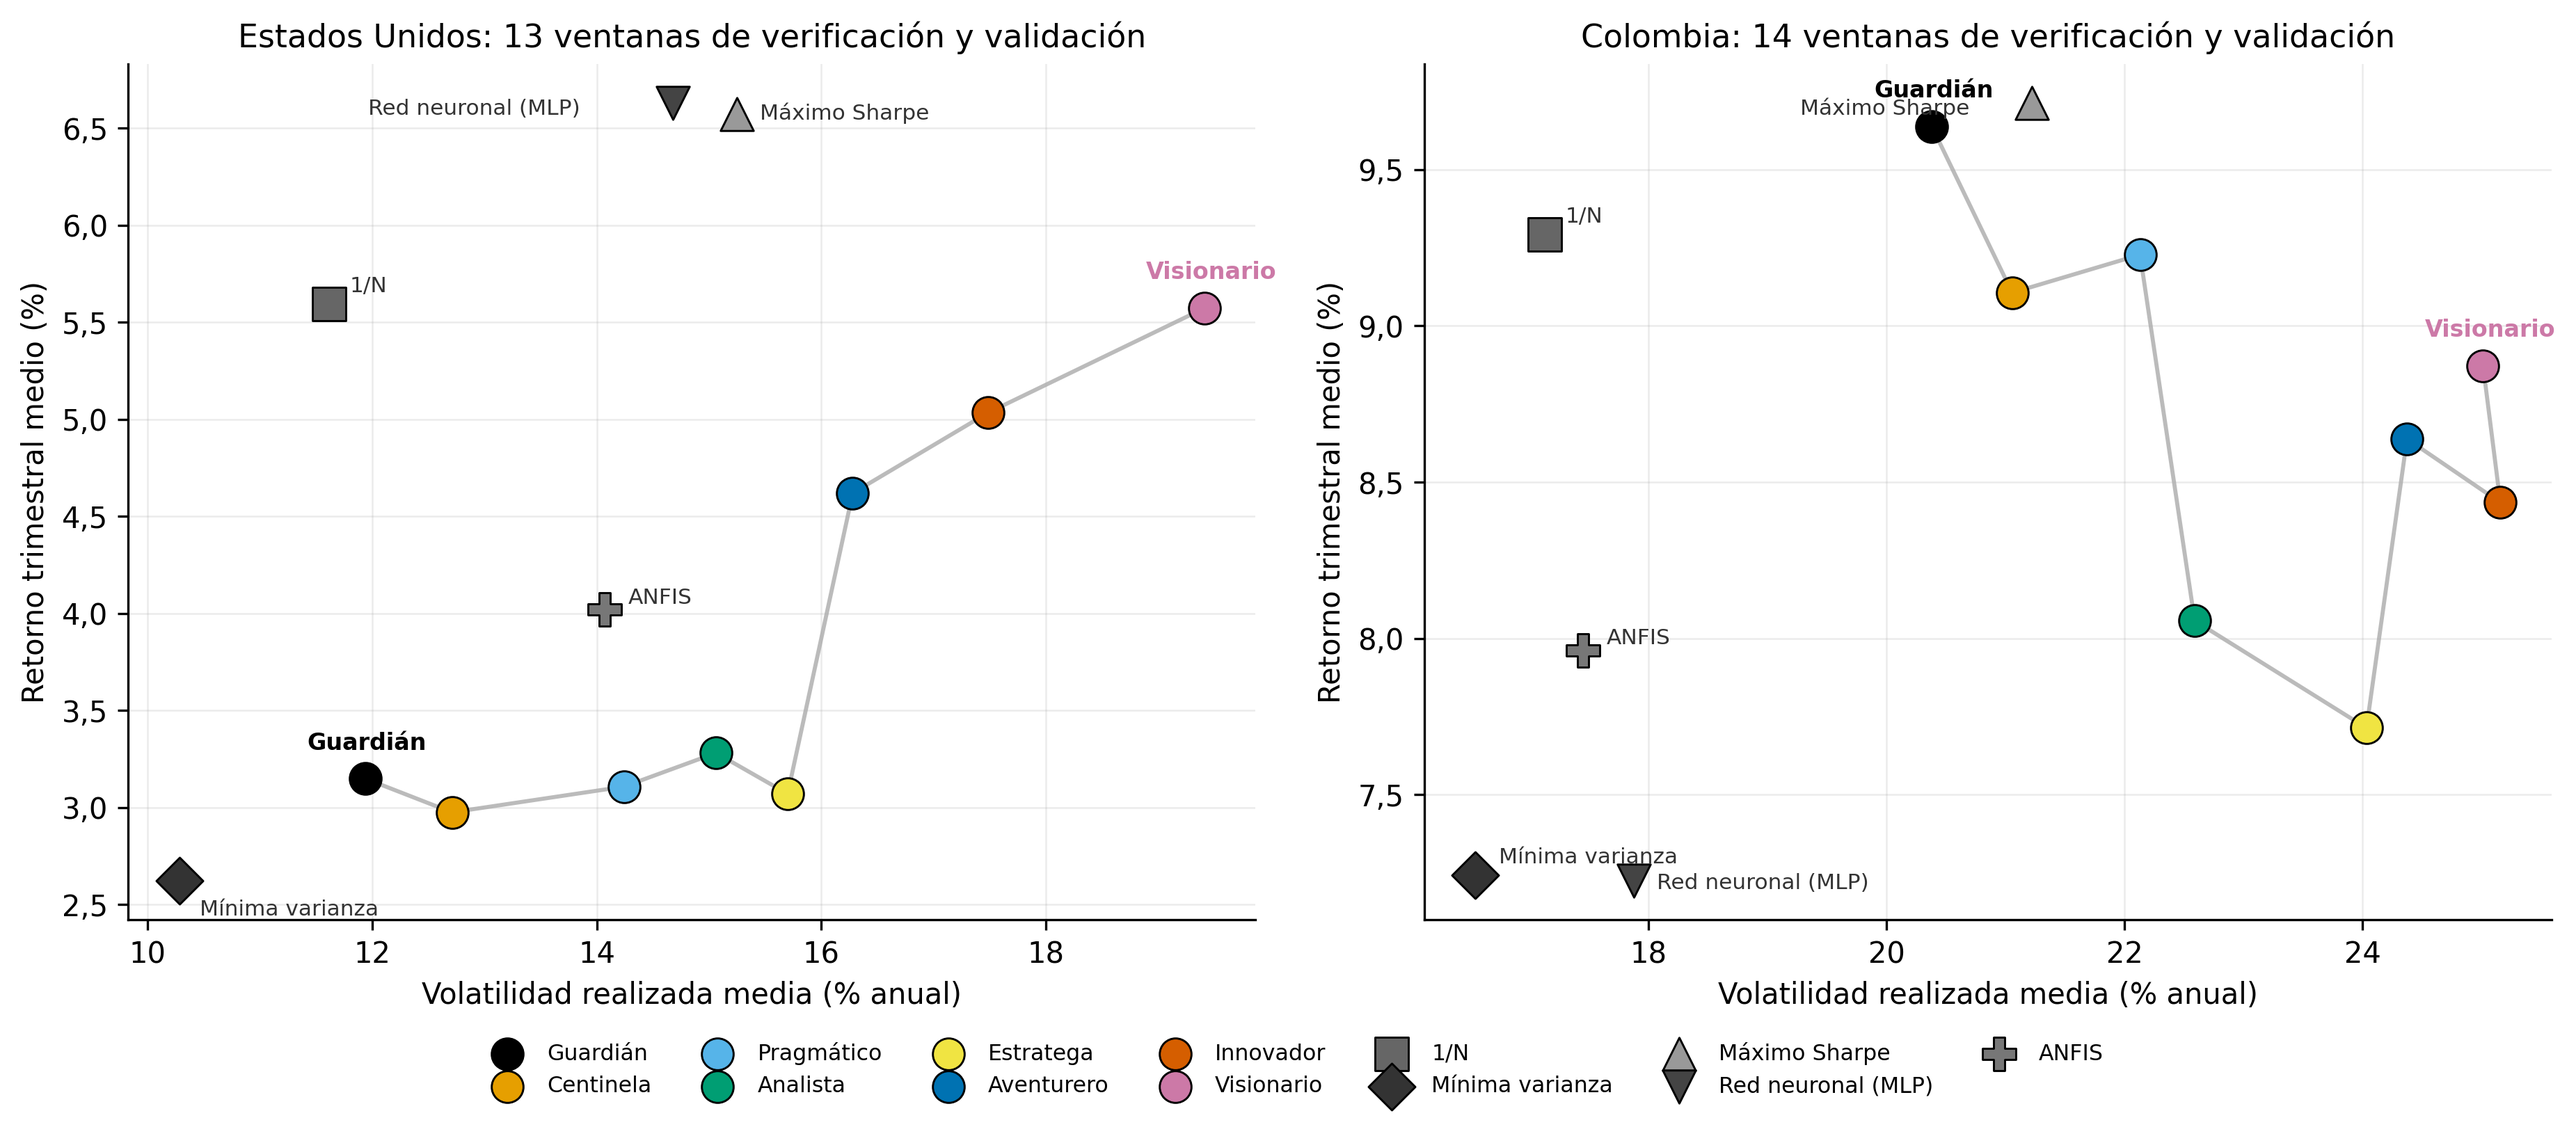
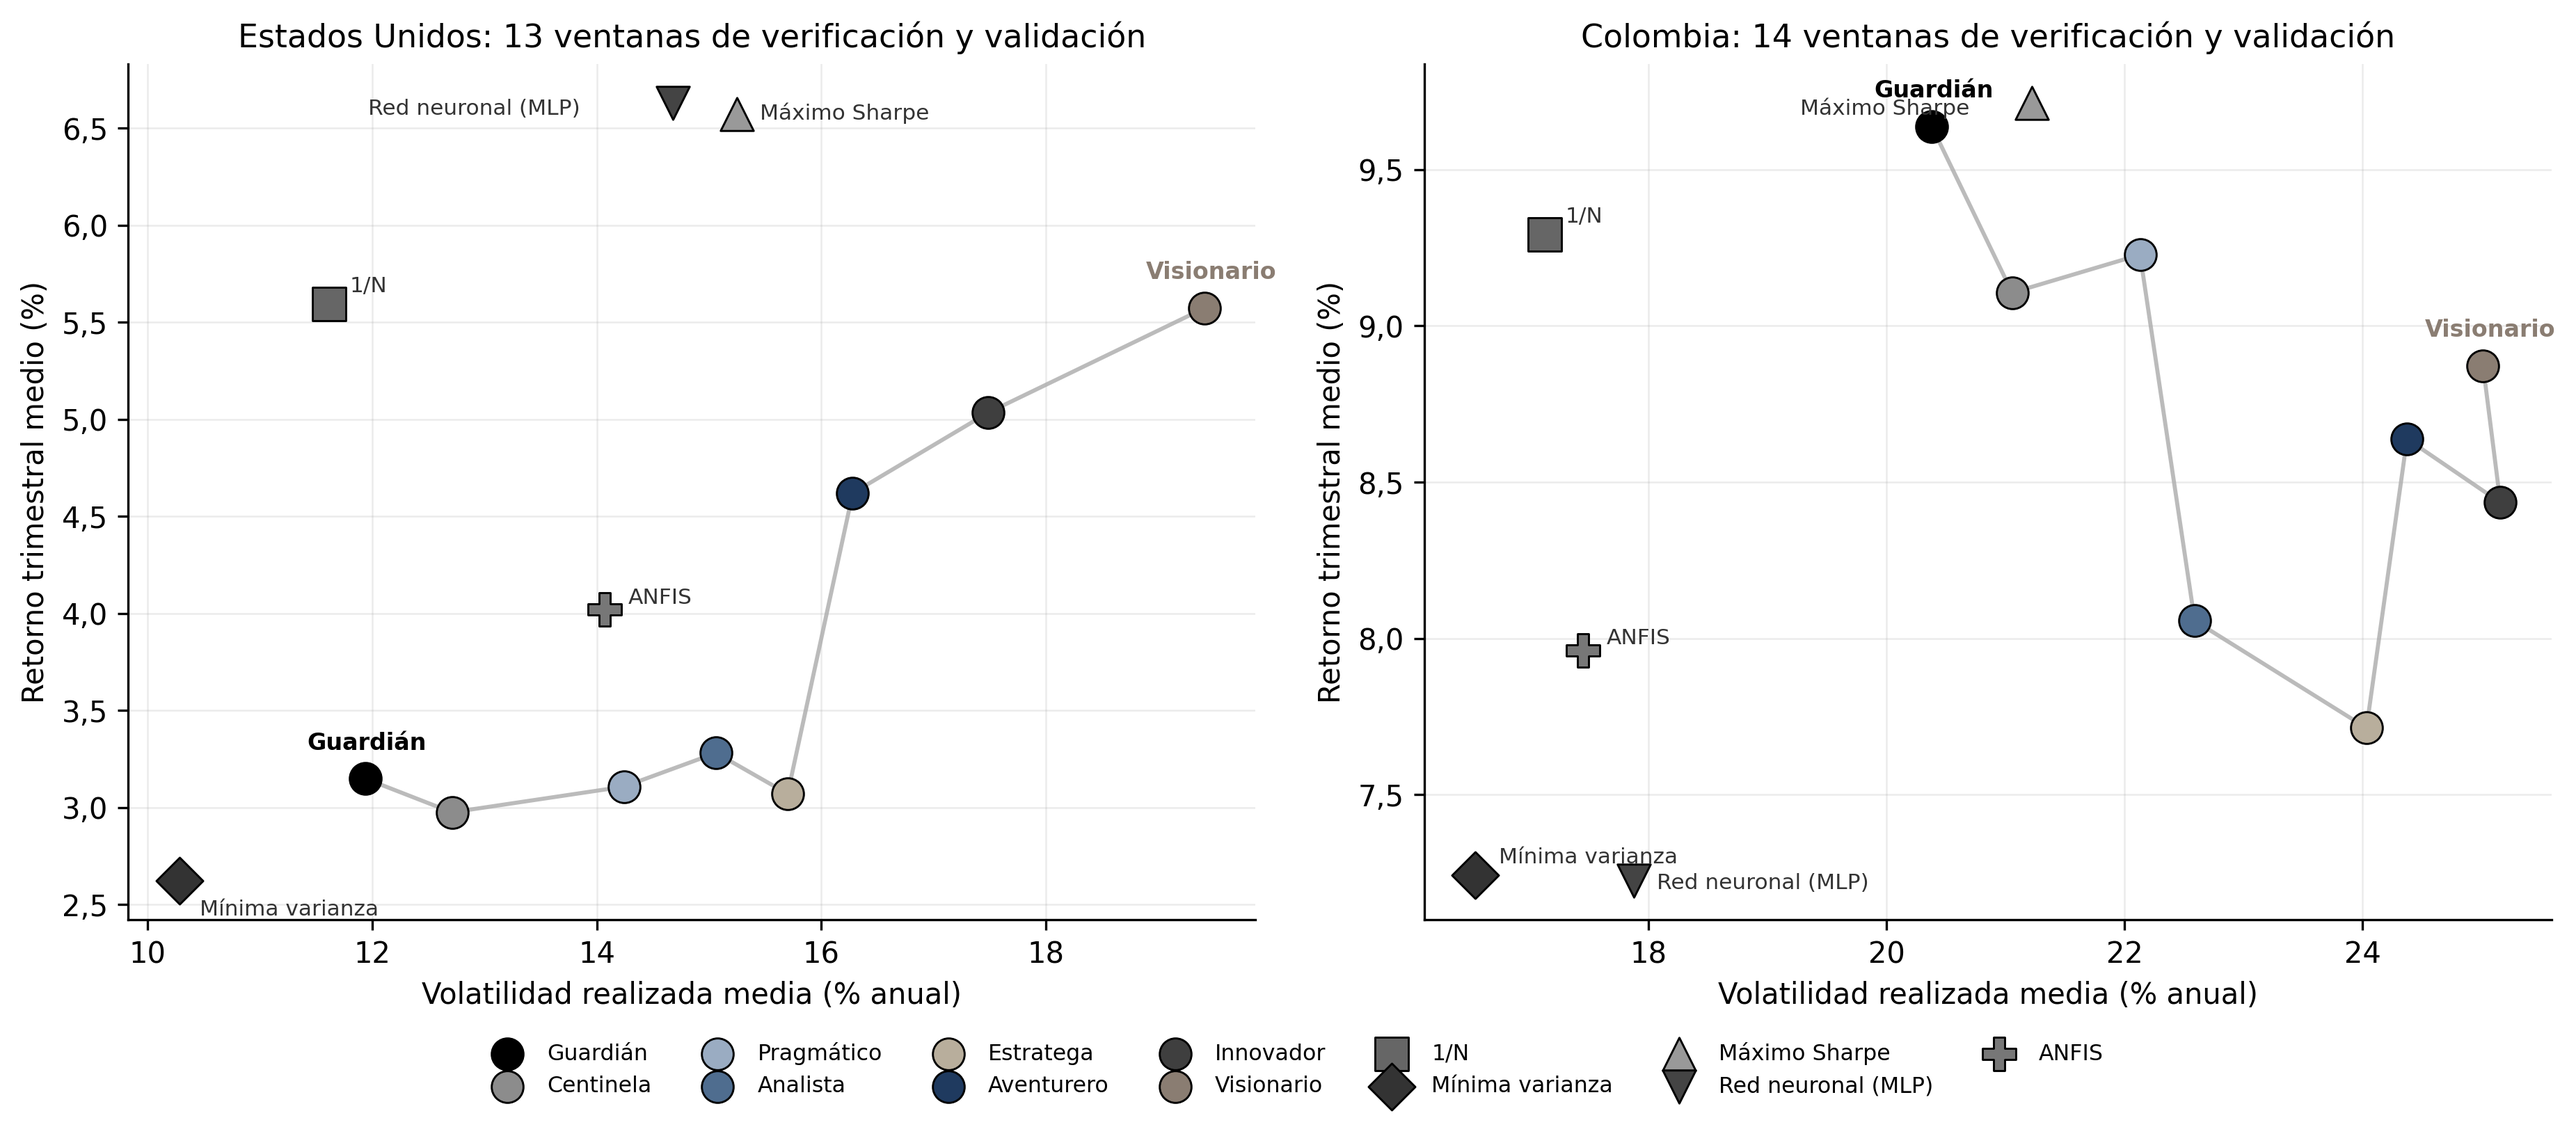
Figuras en paleta institucional (azul marino y grises)
Recolorea todas las figuras y los guiones que las generan; sin cambios de contenido ni de datos.
Figura 3.4 (prisma-repo): desglose de excluidos 161 + 48 + 8 = 217 y diagrama sin notas de proceso.

Claude-Session: https://claude.ai/code/session_0184E9JJGMmxaafh1wjWUT3s

diff --git a/scripts/fig_emocional.py b/scripts/fig_emocional.py
@@ -22,7 +22,7 @@ res = pd.read_csv(os.path.join(RES, "emocional_resumen.csv"), index_col=0)
 cfg = EngineConfig()
 fig, axes = plt.subplots(1, 2, figsize=(11.5, 4.4))
 ax = axes[0]
-for g, c, et in [("logico", "#0072B2", "lógicos"), ("emocional", "#E69F00", "emocionales")]:
+for g, c, et in [("logico", "#1F3A5F", "lógicos"), ("emocional", "#8C8C8C", "emocionales")]:
     v = ind.loc[ind.grupo == g, "mean_abs_gap"]
     ax.hist(v, bins=14, color=c, edgecolor="black", lw=0.5, alpha=0.85,
             label=f"{et} (n = {len(v)})")
@@ -34,8 +34,8 @@ estilo(ax); ejes_coma(ax)
 ax = axes[1]
 lam = ind.loc[ind.grupo == "logico", "lambda_hat"].dropna()
 n_neg, n_alto = int((lam < 0).sum()), int((lam > 6).sum())
-ax.hist(lam, bins=12, range=(0, 6), color="#009E73", edgecolor="black", lw=0.5)
-ax.axvline(cfg.loss_lambda, color="#D55E00", ls="--", lw=2,
+ax.hist(lam, bins=12, range=(0, 6), color="#4F6D8F", edgecolor="black", lw=0.5)
+ax.axvline(cfg.loss_lambda, color="#3F3F3F", ls="--", lw=2,
            label=f"λ sembrado = {coma(cfg.loss_lambda, 2)}")
 med = float(res.loc["logico", "lambda_estimado"])
 ax.axvline(med, color="black", ls=":", lw=2, label=f"mediana estimada = {coma(med, 2)}")

diff --git a/scripts/_es.py b/scripts/_es.py
@@ -6,9 +6,9 @@ from motor_owa.viz_es import (NOMBRES_ES, COMPARADORES_ES, OKABE_ITO, coma,  # n
                               ejes_coma, estilo, guardar)
 from matplotlib.colors import LinearSegmentedColormap
 
-#: divergente Okabe-Ito: bermellon (hacia la prudencia) - blanco - azul
+#: divergente: gris oscuro (hacia la prudencia) - blanco - azul marino
 DIVERGENTE_OI = LinearSegmentedColormap.from_list(
-    "oi_div", ["#D55E00", "#FFFFFF", "#0072B2"])
+    "oi_div", ["#3F3F3F", "#FFFFFF", "#1F3A5F"])
 MESES = ["ene", "feb", "mar", "abr", "may", "jun", "jul", "ago", "sep",
          "oct", "nov", "dic"]
 

diff --git a/scripts/fig_migracion.py b/scripts/fig_migracion.py
@@ -1,7 +1,7 @@
 """Figura 7.2 -- Migracion de perfil (octiles) segun la sorpresa estandarizada.
 
 Lee results/sensibilidad_perfil.csv (independiente del mercado).
-Salida: figures/F31_migracion.png (rotulos en espanol, paleta Okabe-Ito).
+Salida: figures/F31_migracion.png (rotulos en espanol, paleta institucional (azul marino y grises)).
 """
 import os, sys
 HERE = os.path.dirname(os.path.abspath(__file__))

diff --git a/src/oe4/pipeline.py b/src/oe4/pipeline.py
@@ -8,7 +8,7 @@ Para cada mercado:
      max-Sharpe (media-varianza), red neuronal (MLP) y ANFIS.
   3. Estabilidad: ruido sobre criterios, estres (peor subperiodo),
      sensibilidad al cambio de perfil.
-Salidas: CSV en results/ y figuras Okabe-Ito en figures/.
+Salidas: CSV en results/ y figuras en azul marino y grises en figures/.
 """
 from __future__ import annotations
 
